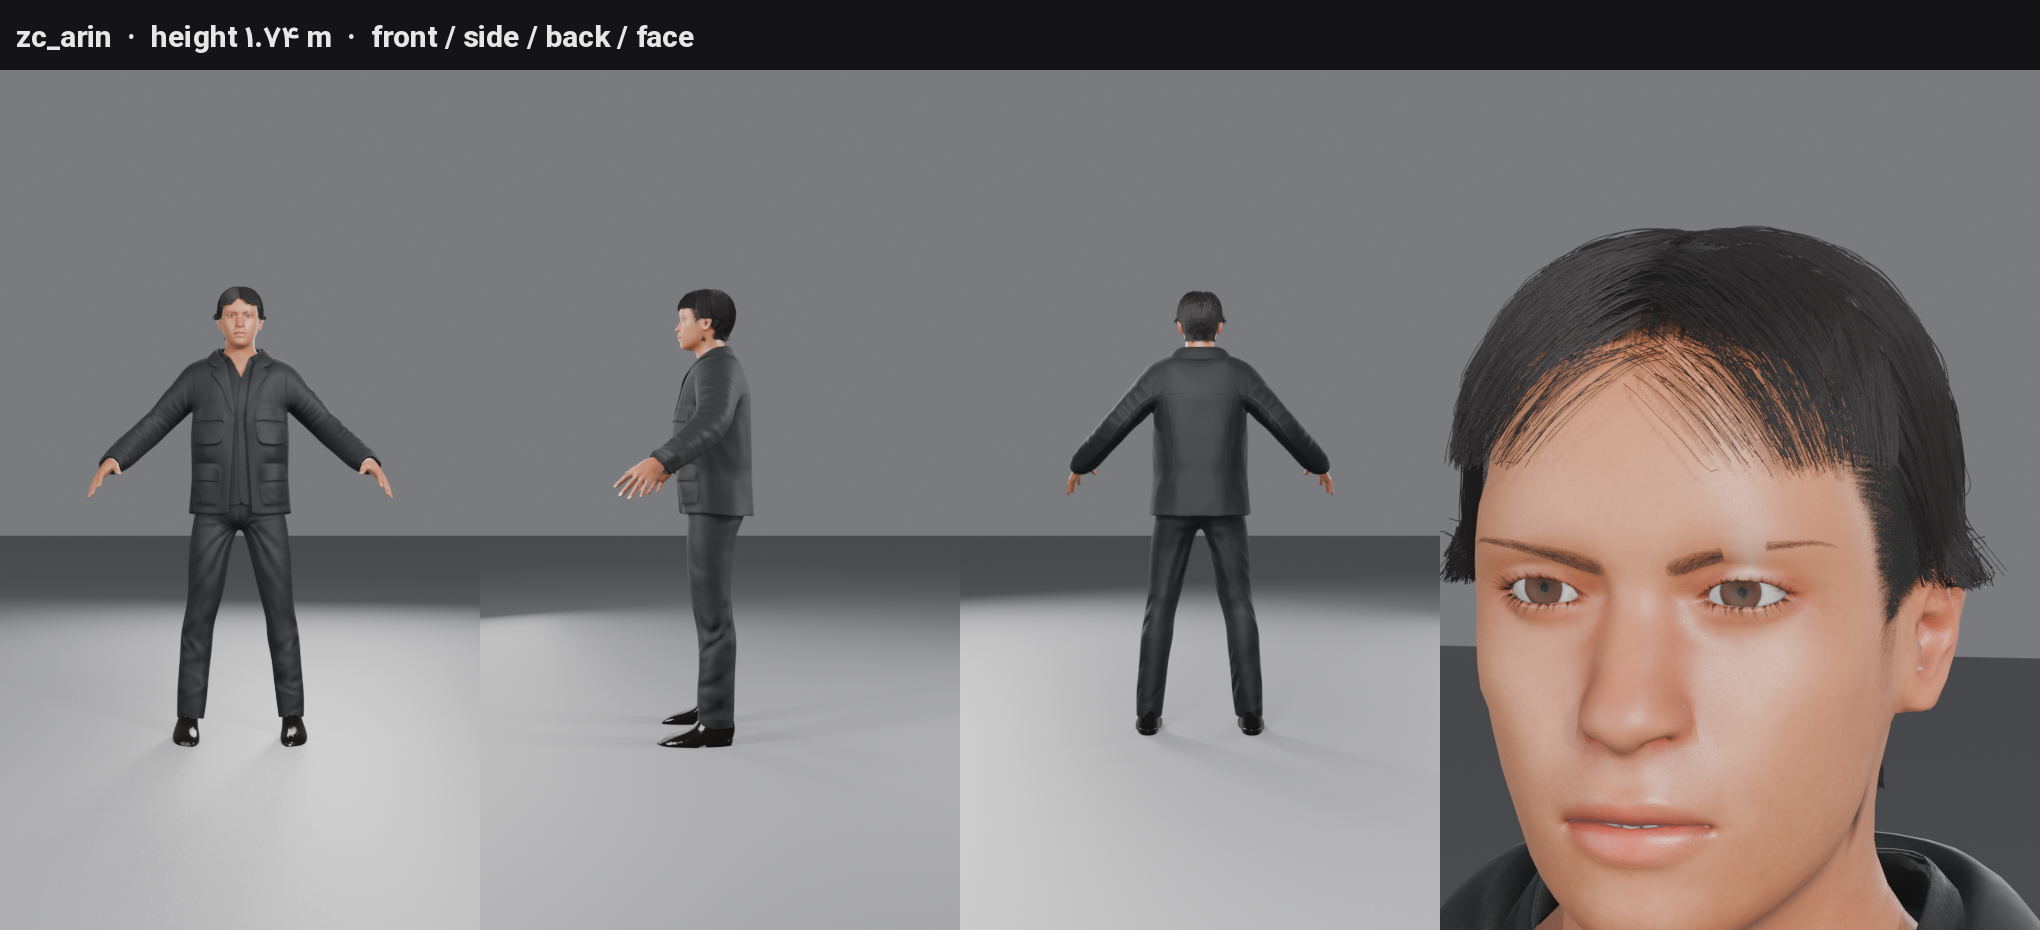
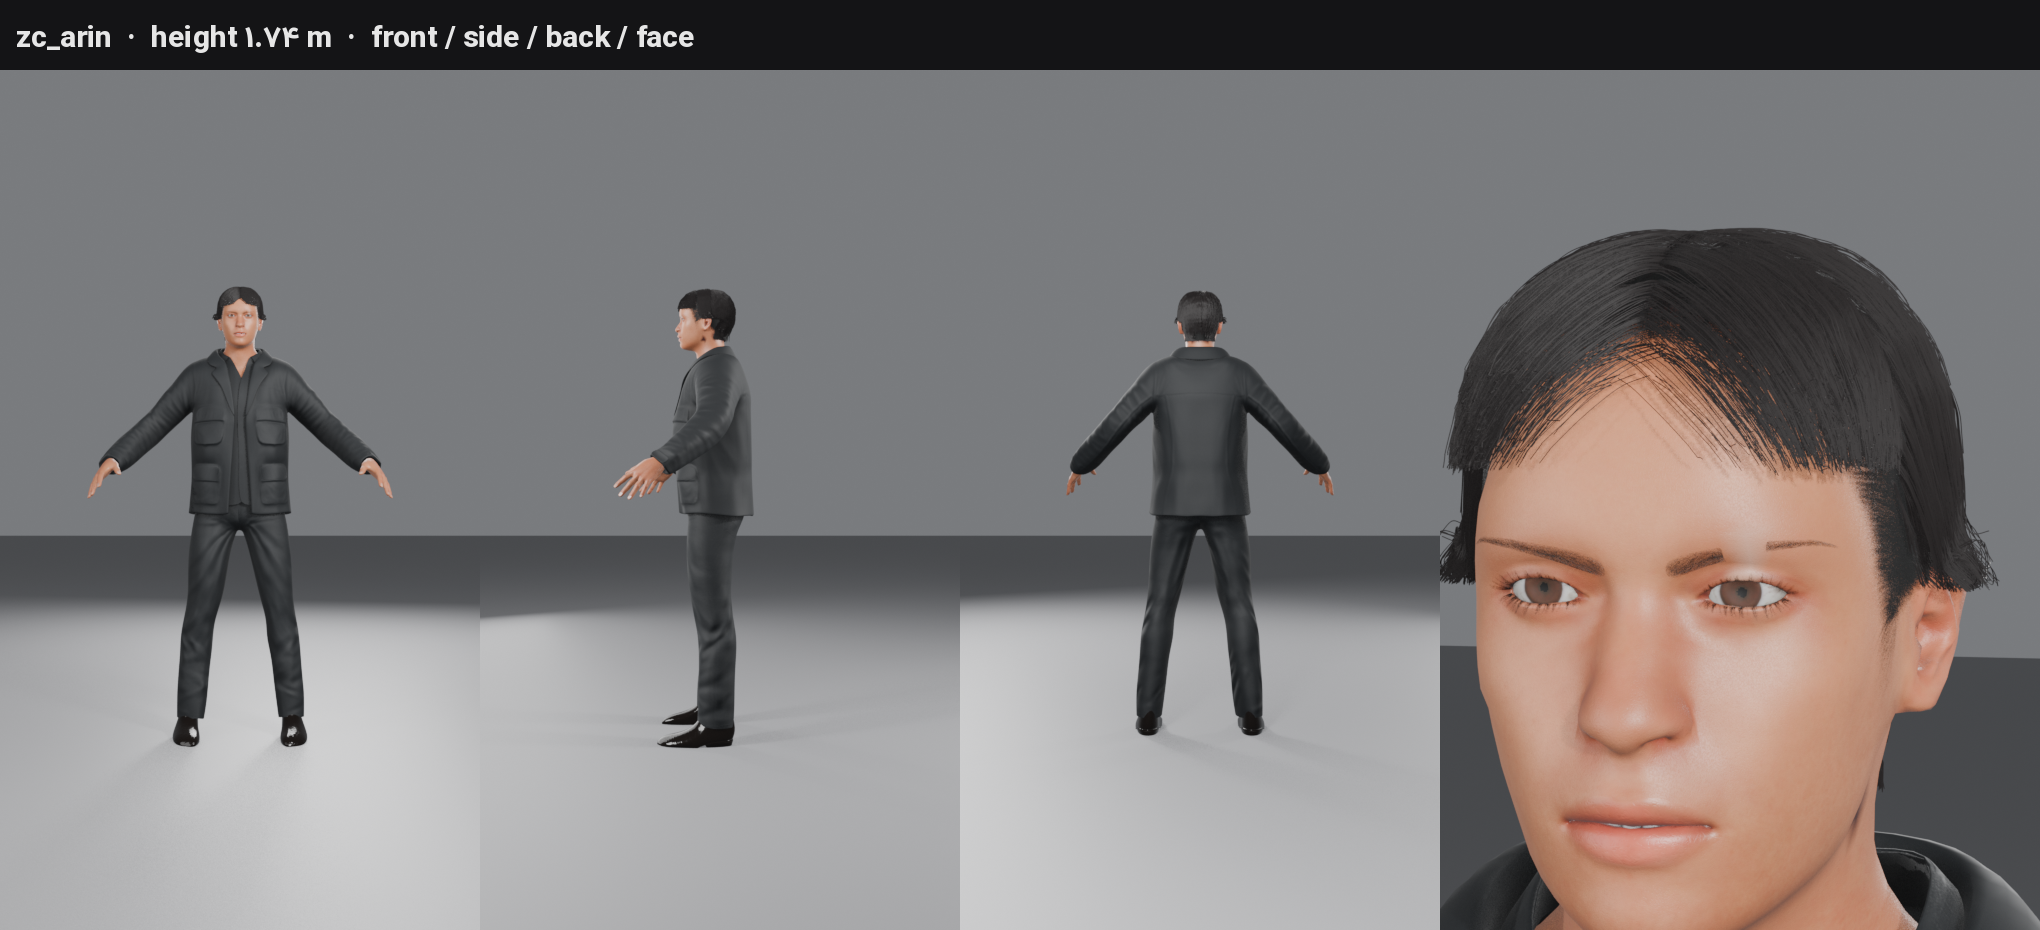
Zombie Center: Arin fringe shadow + thicker front strands
Claude-Session: https://claude.ai/code/session_0195jcA6aNEjGkEhpvKfuJLv

Changed region(s): [[0.7103, 0.3118, 0.9265, 0.5301], [0.9574, 0.5613, 0.9882, 0.6237], [0.7721, 0.2495, 0.8029, 0.2806]]

diff --git a/blender/zombie_center/zc_hair.py b/blender/zombie_center/zc_hair.py
@@ -32,7 +32,7 @@ def _darken_scalp(body, on_scalp, rgb=(0.012, 0.01, 0.01)):
     """Paint the scalp under the strands dark so skin never shows through the part or the hairline."""
     import mpfb_tools as M
     mw = body.matrix_world
-    M.paint(body, "zc_scalp", lambda p, n: (1.0, 0, 0) if on_scalp(mw @ p) else (0.0, 0, 0))
+    M.paint(body, "zc_scalp", lambda p, n: (min(1.0, on_scalp(mw @ p)), 0, 0))
     M.recolor(body, lambda nt, c: M.mix(nt, c, rgb, M.attr(nt, "zc_scalp")[0]))
 
 
@@ -75,7 +75,12 @@ def centre_part_hair(ch, n=20000, seed=1, colour=(0.012, 0.010, 0.010), name=Non
     faces = [f for f in bm.faces if root_ok(f.calc_center_median())]
     def paint_ok(p):
         fy = (p.y - front_y) / max(1e-6, (back_y - front_y))
-        return root_ok(p) and (fy > 0.3 or p.z > hairline_front + 0.02)
+        if root_ok(p) and (fy > 0.3 or p.z > hairline_front + 0.02):
+            return 1.0
+        # forehead under the fringe: a soft shadow so skin doesn't flash between strands (not the part line)
+        if fy < 0.3 and brow_z + 0.04 < p.z <= hairline_front + 0.02 and 0.007 < abs(p.x - cx) < 0.06:
+            return 0.55 * min(1.0, (p.z - brow_z - 0.04) / 0.02)
+        return 0.0
     _darken_scalp(body, paint_ok)
     areas = [f.calc_area() for f in faces]
     tot = sum(areas)
@@ -172,8 +177,9 @@ def centre_part_hair(ch, n=20000, seed=1, colour=(0.012, 0.010, 0.010), name=Non
     rad = cv.attributes.get("radius") or cv.attributes.new("radius", "FLOAT", "POINT")
     rv = []
     for s in strands:
+        thick = 1.6 if (s[0].y - front_y) / (back_y - front_y) < 0.38 else 1.0   # fuller fringe
         for i in range(SEG):
-            rv.append(0.00016 * (1 - 0.7 * i / (SEG - 1)))
+            rv.append(0.00016 * thick * (1 - 0.7 * i / (SEG - 1)))
     rad.data.foreach_set("value", rv)
     ob = bpy.data.objects.new(cname, cv)
     for c in body.users_collection:
